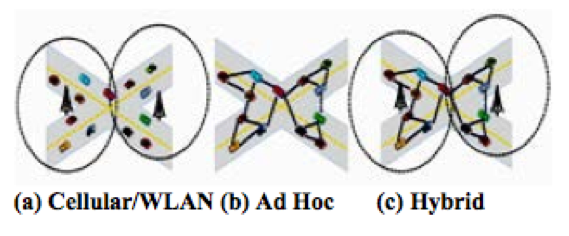
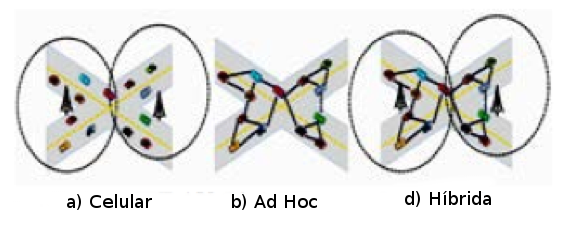
correcoes

Changed region(s): [[0.0, 0.8008, 0.5975, 0.9195], [0.6573, 0.8008, 0.8664, 0.9195]]

diff --git a/metodologia/prototipo.tex b/metodologia/prototipo.tex
@@ -1,11 +1,11 @@
-\subsection{Protótipo e experimento em campo}
-\label{subsec:prototipoExperimento}
+\section{Metodologia do Protótipo}
+\label{sec:prototipoExperimento}
 
 Um protótipo foi desenvolvido para avaliar o uso dos agentes fora do ambiente virtual. O objetivo desta fase é recolher dados sobre a latência e taxa de perda do agente. A latência é importante para alguns tipos aplicações como por exemplo para detectar colisão \cite{santanaMestrado:2014}. Assim, essas informações são importantes para identificar quais os tipos de aplicações os agentes são melhores empregados. Uma rede para ser bem sucedida com a utilização dos agentes de software necessita mante-los ativo até o fim de sua missão.A Figura \ref{fig:noInstaladoVeiculo} pode-se visualizar um nó instalado em um veículo.
 
 \begin{figure}[htbp]
 	\centering
-	\includegraphics[scale=0.06]{metodologia/figuras/noInstaladoVeiculo.jpg}
+	\includegraphics[scale=0.2]{metodologia/figuras/noInstaladoVeiculo.jpg}
 	\caption{Nó instalado em um veículo.}
 	\label{fig:noInstaladoVeiculo}
 \end{figure}
@@ -33,7 +33,7 @@ O experimento utiliza três nós, onde dois nós são para os veículos e um des
 
 Ao iniciar o experimento é introduzido um agente em um dos nós. Então o agente deve migrar sempre que encontrar um outro nó.
 
-\subsubsection{Arquitetura do nó}
+\subsection{Arquitetura do nó}
 
 A Figura \ref{fig:arquiteturaPrototipoInfraestrtura} demonstra a arquitetura da infraestrutura que utiliza um Xbee e um XBee Explorer USB Adapter conectado em um notebook.
 
@@ -69,7 +69,7 @@ Para hospedar o agente foi desenvolvido um aplicativo Android, esse aplicativo f
 
 Esse aplicativo também realiza a coleta dos dados em arquivo. Os dados coletados são a hora que o agente migrou, a hora que recebeu um agente em milisegundo. Então para calcular a latência é a subtração da hora de quando o novo hospede recebeu o agente e a hora que o agente iniciou a migração no antigo hospede.
 
-\subsubsection{Agente}
+\subsection{Agente}
 
 A missão do agente neste experimento é migrar sempre que encontrar um novo nó. O agente deve transportar as instruções, o identificador da migração e a posição do antigo nó hospede para o novo nó. As instruções utilizadas pelo agente são apresentadas na Tabela \ref{tab:instrucoesAgente}, elas são formadas por uma letra maiúscula, uma sequência de três letras minúscula e um número, esse padrão é utilizado pelo mecanismo de validação e recuperação. Para delimitar o fim da instrução é utilizado o caractere de ponto e vírgula (\emph{;}). O identificador da migração é um número que serve para auxiliar no cálculo de latência. Assim com o identificador é possível encontrar a hora que o agente migrou e a hora que o agente foi recebido por completo no hospedeiro em dois arquivos diferentes. Sempre antes do agente migrar o identificador de migração é incrementado.  
 
@@ -95,7 +95,7 @@ O agente é formado por dois elementos, como demonstra a Figura \ref{fig:estrutu
 	\label{fig:estruturaAgente}
 \end{figure}
 
-\subsubsection{Mecanismo validação e recuperação}
+\subsection{Mecanismo validação e recuperação}
 
 Após um nó receber o último colchete (\emph{]}) ou 500 ms com um agente incompleto o mecanismo de validação e recuperação é ativado. A principal função deste mecanismo é tentar recuperar o agente danificado e se não conseguir descarta-lo. 
 
@@ -162,7 +162,7 @@ Para tentar recuperar o corpo, primeiro verifica se existe um caractere de colch
 	\label{fig:exemploCodigoAgente}
 \end{figure}
 
-\subsubsection{Trajeto e cenário}
+\subsection{Trajeto e cenário}
 
 Como trajeto é utilizada a avenida norte que está localizada no campus da Universidade Federal de Lavras. O trajeto pode ser visualizado na Figura \ref{fig:trajetoExperimento}. Nesse trajeot o veículo percorre 344,45 metros. 
 

diff --git a/referencial/referencial.tex b/referencial/referencial.tex
@@ -29,7 +29,7 @@ As \emph{Veicular Ad Hoc Networks} (VANET) são um conjunto de veículos que pos
 
 A velocidade dos nós é outro fator importante no desenvolvimento de uma VANET \cite{Kumar:2011}, partindo do princípio que veículos possuem uma velocidade muito maior de deslocamento do que dispositivos móveis. 
 
-O autor \cite{Kumar:2011} afirma que as redes veiculares podem ser construídas de três maneiras. A primeira é utilizando um modelo celular onde pontos fixos espalhados funcionam como ponte para conexão dos veículos. O segundo é uma rede onde as intersecções dos veículos são pontes para transmissão dos dados. A terceira maneira para construir uma rede rede veicular é uma técnica híbrida com a rede \emph{ad Hoc} e celular onde existem os pontos fixos e a intersecções para trafegar os dados entre os veículos. Esse modelos são exemplificados na figura \ref{fig:fig28}.
+O autor \cite{Kumar:2011} afirma que as redes veiculares podem ser construídas de três maneiras. A primeira é utilizando um modelo celular onde pontos fixos espalhados funcionam como ponte para conexão dos veículos. O segundo é uma rede onde as intersecções dos veículos são pontes para transmissão dos dados. A terceira maneira para construir uma rede rede veicular é uma técnica híbrida com a rede \emph{ad Hoc} e celular onde existem os pontos fixos e a intersecções para trafegar os dados entre os veículos. Esse modelos são exemplificados na Figura \ref{fig:fig28}.
 
 \begin{figure}[htbp]
 	\centering
@@ -43,7 +43,7 @@ De acordo com \cite{Piran:2011}, com a utilização de sensores nos veículos po
 \begin{description}
 \item[Aplicação para Segurança:] são utilizadas para reduzir os acidentes envolvendo veículos por exemplo monitorar velocidade, notificação de acidente, notificação de perigo na estrada e alerta de colisão.
 
-\item[Aplicação para Segurança:] são utilizados como para o conforto dos condutor do veículos  por exemplo para notificações de roubo, de congestionamento, de multas de trânsito e informações sobre o tráfico de veículos em um determinado trajeto.
+\item[Aplicação para Apoio:] são utilizados como para o conforto dos condutor do veículos  por exemplo para notificações de roubo, de congestionamento, de multas de trânsito e informações sobre o tráfico de veículos em um determinado trajeto.
 \end{description}
 
 O desempenho de uma VANET pode ser afetado pela topologia da rede que é alterada frequentemente \cite{Lidstrom:2010}, prejudicando o desenvolvimento de aplicações em tempo real por possuir baixo nível de confiança.

diff --git a/metodologia/simulacao.tex b/metodologia/simulacao.tex
@@ -1,5 +1,5 @@
-\subsection{Simulação}
-\label{subsec:simulacao}
+\section{Metodologia da Simulação}
+\label{sec:simulacao}
 
 O desenvolvimento da simulação foi dividido em três etapas. A primeira etapa é a construção do cenário com o modelo de movimento, veículos e infraestrutura. A segunda etapa é o desenvolvimento dos agentes de software, e por último a fase de simulação. 
 
@@ -19,7 +19,7 @@ A simulação foi desenvolvida utilizando o simulador GRUBiX e executada em um n
 	\label{tab:configuracaoNotebook}
 \end{table}
 
-\subsubsection{Cenário}
+\subsection{Desenvolvendo o Cenário}
 
 O cenário é uma cidade dividida em quadras seguindo o modelo de movimento \emph{Manhattan}. Nessa cidade possuem veículos que percorrem as quadras. Alguns cruzamentos possuem uma infraestrutura e elas estão conectadas através de cabos. 
 
@@ -325,8 +325,6 @@ Na simulação que a infraestrutura está ativada, ela pode replicar o \emph{min
 \end{figure}
 
 Para não congestionar a rede, o agente principal deve evitar procurar novos nós por um período de tempo, e durante esse período ele pode executar outras tarefas. Esse comportamento pode ser repetido infinitamente ou o agente pode ter um tempo determinado para executar a sua missão. Ao fim desse tempo, o agente deixa de existir.
-
-\subsubsection{Realizar simulação}
 
 O objetivo da simulação é averiguar se a adição de uma infraestrutura melhora a locomoção dos agentes de software, favorecendo que ele desempenhe a sua missão. Após o desenvolvimento e testes do cenário e de todos os atores da simulação é necessário configurar o simulador. As varáveis que o simulador GRUbiX utiliza são: quantidade dos nós, alcance do sinal, largura e altura do cenário. 
 

diff --git a/introducao/introducao.tex b/introducao/introducao.tex
@@ -36,4 +36,4 @@ As redes veiculares é um tópico em constantes pesquisa pelo setor público e p
 
 \subsection{Estrutura do Trabalho}
 
-Este trabalho está organizado da seguinte forma: os conceitos sobre redes veiculares, agentes de software e modelos de movimentos são apresentados na Seção \ref{sec:referencialTeorico}. Os procedimentos para a realização das simulações e a especificação para a construção do protótipo são apresentados nas Seções \ref{sec:metodologiaPrototipo} e \ref{sec:metodologiaSimulacao}. Na Seção \ref{sec:resultados} os resultados são apresentados e discutidos. Enfim, a conclusão do trabalho e proposta de continuidade são apresentados na Seção \ref{sec:conclusao}.
+Este trabalho está organizado da seguinte forma: os conceitos sobre redes veiculares, agentes de software e modelos de movimentos são apresentados na Seção \ref{sec:referencialTeorico}. Os procedimentos para a realização das simulações e a especificação para a construção do protótipo são apresentados nas Seções \ref{sec:simulacao} e \ref{sec:prototipoExperimento}. Na Seção \ref{sec:resultados} os resultados são apresentados e discutidos. Enfim, a conclusão do trabalho e proposta de continuidade são apresentados na Seção \ref{sec:conclusao}.

diff --git a/metodologia/metodologia.tex b/metodologia/metodologia.tex
@@ -1,4 +1,4 @@
-\section{Metodologia da contrução da Simulação}
+
 \label{sec:metodologiaSimulacao}
 
 Após examinar diversos artigos e trabalhos científicos que abordaram redes veiculares, não foi identificado um padrão metodológico para a avaliação dessas redes. Normalmente, cada autor realiza a metodologia de acordo com as variáveis que se deseja avaliar. 
@@ -8,11 +8,6 @@ O uso de simulação justificou-se pela complexidade em se aplicar as técnicas 
 \input{metodologia/simulacao}
 
 
-\section{Metodologia da contrução do Protótipo}
-\label{sec:metodologiaPrototipo}
-Para comprovar a possibilidade da construção de um sistema baseado em agentes de software sobre uma VANET, foi elaborado um protótipo utilizando o trabalho \cite{santanaMestrado:2014} como referência e um cenário foi desenvolvido para avaliação.
 
-A seção \ref{subsec:simulacao} descreve as etapas para a elaboração da simulação, onde será encontrado informações sobre o simulador, a estrutura do agente de software e o cenário utilizado para a simulação. As informações sobre o protótipo e o experimento em campo são descritas na seção \ref{subsec:prototipoExperimento}.
 
-\input{metodologia/prototipo}
 

diff --git a/resultados/prototipo.tex b/resultados/prototipo.tex
@@ -1,6 +1,6 @@
 \subsection{Resultados com Protótipo}
 
-Como descrito na Seção \ref{subsec:prototipoExperimento} foram realizados dois testes com o protótipo, o primeiro utilizando uma infraestrutura fixa e outro penas com os veículos.
+Como descrito na Seção \ref{sec:prototipoExperimento} foram realizados dois testes com o protótipo, o primeiro utilizando uma infraestrutura fixa e outro penas com os veículos.
 
 A Figura \ref{fig:experimentoRealLatencia} apresenta a comparação entre as médias das latências com infraestrutura e sem infraestrutura. Pode-se observar que a infraestrutura causou pouco impacto na latência. Isso ocorre pelo fato que ambos os experimentos utilizaram os mesmos algoritmos de locomoção do agente e equipamentos. Levando em consideração que o ambiente era controlado e não existiam outras fontes de ruído, o ZigBee apresentou uma baixa variação da latência. A Tabela \ref{tab:experimentoRealLatencia} apresenta informações como média e variância. 
 

diff --git a/resultados/resultados.tex b/resultados/resultados.tex
@@ -1,7 +1,7 @@
 \section{Resultado e Discussão}
 \label{sec:resultados}
 
-Os resultados apresentados nesta seção estão divididos em duas partes. A primeira parte abrange as simulações realizadas e os resultados obtidos como é descrito na Seção \ref{subsec:simulacao}. A segunda parte abrange o experimento prático realizado na UFLA com estudo da taxa de perda do agente e latência como descrito na Seção \ref{subsec:prototipoExperimento}. 
+Os resultados apresentados nesta seção estão divididos em duas partes. A primeira parte abrange as simulações realizadas e os resultados obtidos como é descrito nas Seções \ref{sec:simulacao} e \ref{sec:prototipoExperimento}. A segunda parte abrange o experimento prático realizado na UFLA com estudo da taxa de perda do agente e latência como descrito na Seção \ref{subsec:prototipoExperimento}. 
 
 \input{resultados/simulacao}
 \input{resultados/prototipo}

diff --git a/resultados/simulacao.tex b/resultados/simulacao.tex
@@ -18,7 +18,7 @@
 
 	\begin{figure}[htbp]
 		\centering
-		\includegraphics[scale=0.34]{resultados/graficos/graficoSemTorres.pdf}
+		\includegraphics[scale=0.5]{resultados/graficos/graficoSemTorres.pdf}
 		\caption{Resultados obtidos nos cenários sem infraestrutura.}
 		\label{fig:graficosSemTorres}
 	\end{figure}
@@ -102,7 +102,7 @@ Quanto maior é a quantidade de veículos (nós) que formam a rede, maior é a p
 
 	\begin{figure}[htbp]
 		\centering
-		\includegraphics[scale=0.34]{resultados/graficos/graficoComTorres.pdf}
+		\includegraphics[scale=0.5]{resultados/graficos/graficoComTorres.pdf}
 		\caption{Resultados obtidos no cenários com infraestrutura.}
 		\label{fig:graficosComTorres}
 	\end{figure}
